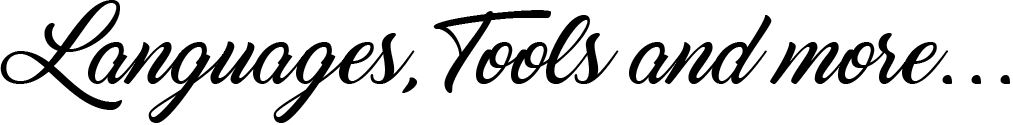
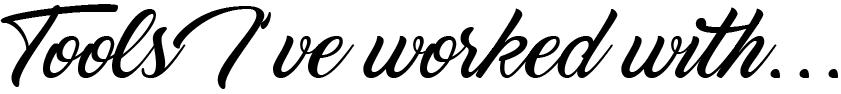
add .env for mailer, change skills image

diff --git a/src/containers/navigation/navigation.js b/src/containers/navigation/navigation.js
@@ -80,13 +80,13 @@ export default class Navigation extends Component {
                     this.props.navigationRoute('about');
                     this.handleToggle();
                     }} >
-                        About
+                        Intro
                     </MenuItem>
                     <MenuItem style={this.state.menuType} onTouchTap={() => {
                     this.props.navigationRoute('skills');
                     this.handleToggle();
                     }} >
-                        Skills
+                        In The Bag
                     </MenuItem>
                     <MenuItem style={this.state.menuType} onTouchTap={() => {
                     this.props.navigationRoute('works');

diff --git a/server.js b/server.js
@@ -69,8 +69,8 @@ app.post('/sendForm', function (req, res) {
         port: 465,
         secure: true,
         auth: {
-            user: 'postmaster@sandbox019863230a794dcfa6d04c57b45f29f7.mailgun.org',
-            pass: 'ed775e3806fb10d50007fdc580384043'
+            user: dotenv.MAILGUN_USER,
+            pass: dotenv.MAILGUN_PASS
         }
 
     });
